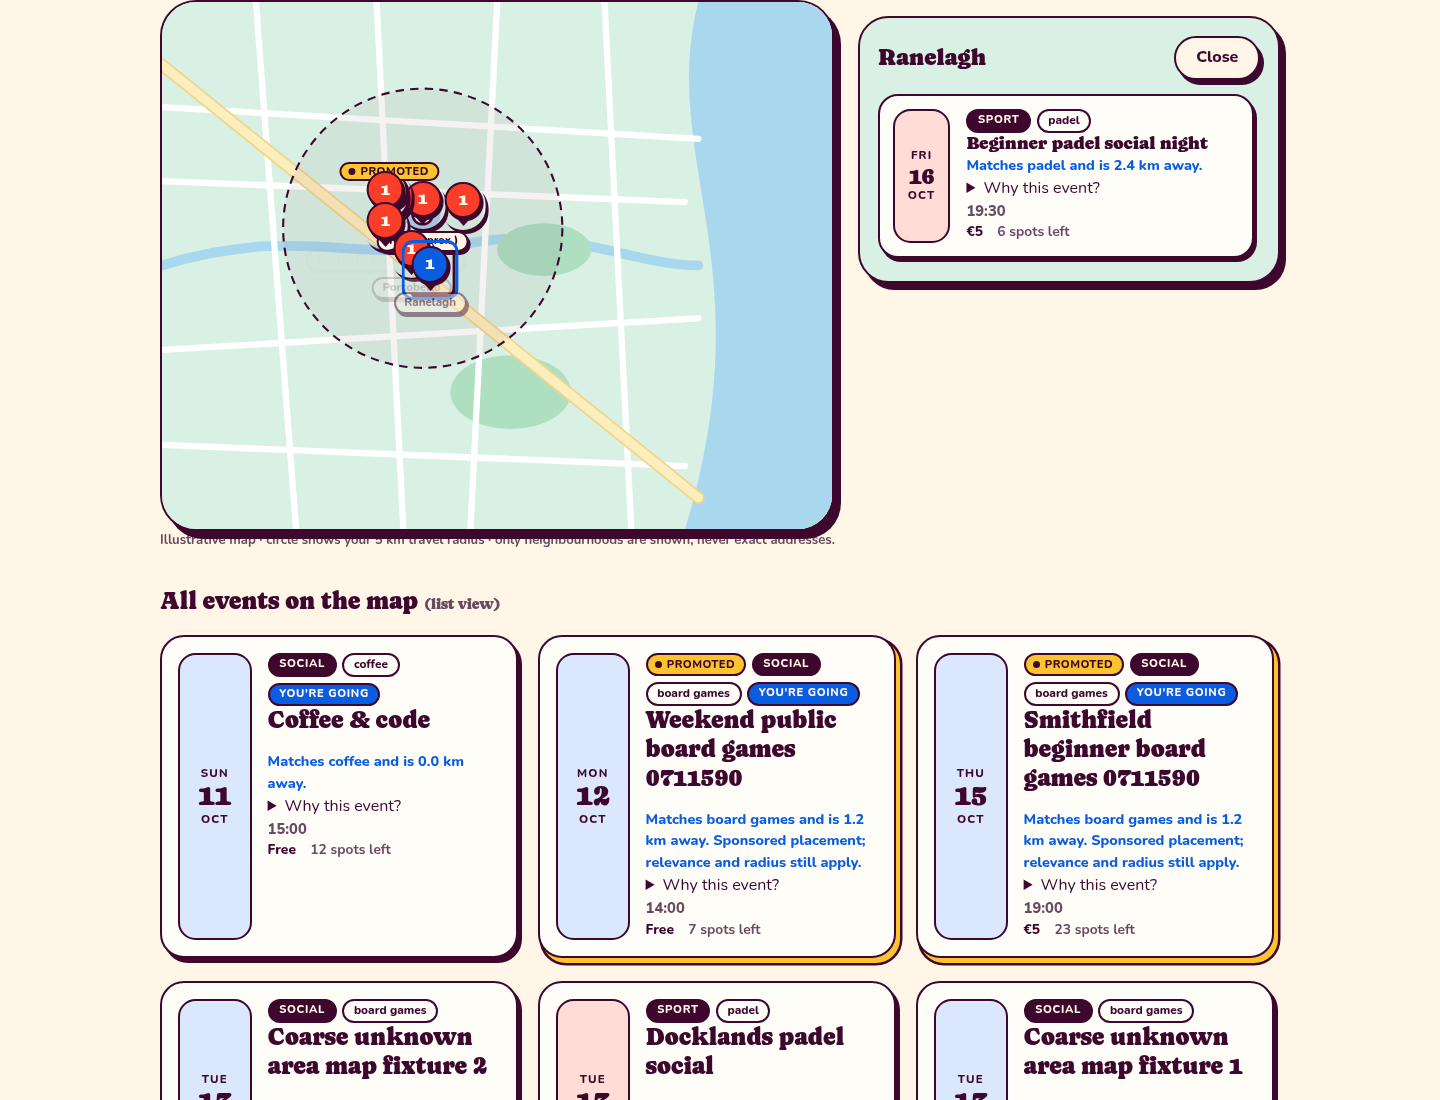
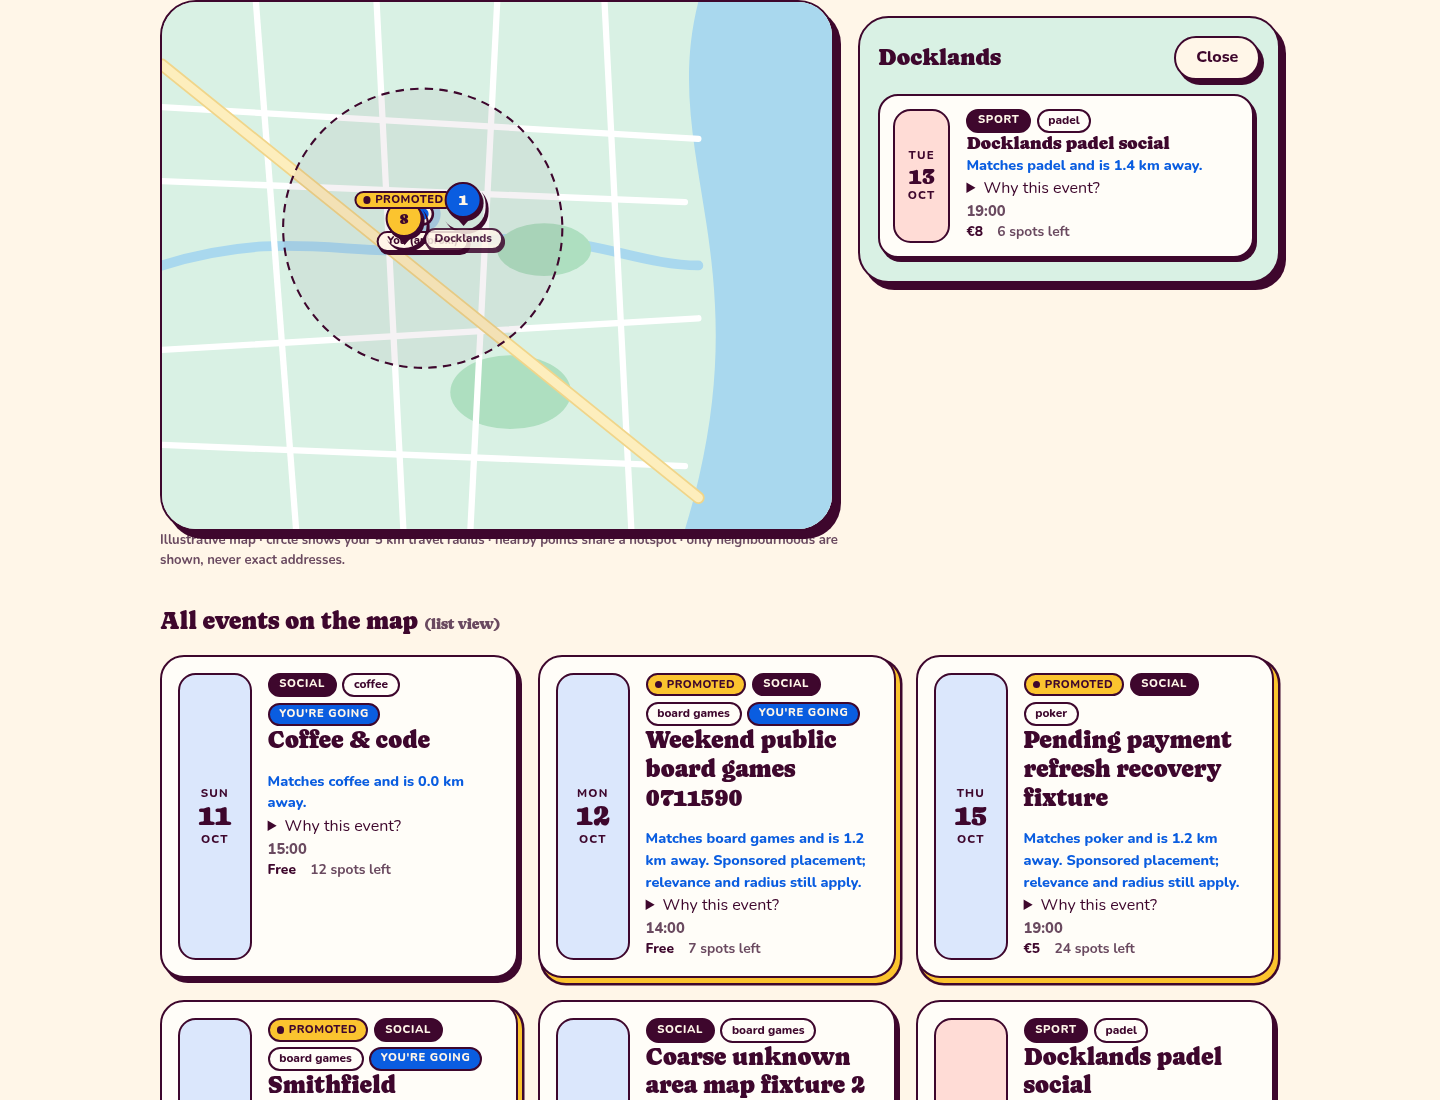
Record final browser verification and screenshots

diff --git a/docs/COMMERCIAL-AI-VERIFICATION.md b/docs/COMMERCIAL-AI-VERIFICATION.md
@@ -22,6 +22,8 @@ The test suites cover:
 - OpenClaw success, OpenClaw failure with OpenRouter fallback, both providers unavailable, deadlines, actual-profile grounding, invalid messages, secret-safe output, and restricted requests.
 - Persistent preferences/mock verification, default JSON location, disposable mode, malformed/oversized requests, and business UI state handling.
 
+The final run with current main integrated passed type checking, 103 tests, 43 offline payment smoke checks, and the production build. The build includes the main website, business portal, and Demo assets.
+
 Payment smoke mocks Stripe SDK create/retrieve/expire operations and verifies locally signed webhook fixtures through the real route. Provider tests use controlled responses. Tests bind temporary localhost ports; storage tests use disposable state or isolated temporary files. No integration credentials or outbound payment/provider requests are needed.
 
 ## Observed browser journeys
@@ -34,7 +36,9 @@ It also checked matching feed/API recommendation order, radius/relevance exclusi
 
 Ask ThirdPlace handled mood, grounded sponsored suggestions, and creation guidance through its labelled rule-based fallback, and refused publishing/payment, diagnosis, exact-address, identity-document, and private-message requests. The mobile feed had no horizontal overflow, and the functional run reported no uncaught browser exceptions.
 
-The illustrative map matched its accessible event list, including City Centre, Docklands, and distinct coarse points in an unknown neighbourhood. Nearby targets appear as clusters whose preview lists every included event; clustering retains the original approximate points. Hotspots were exercised with keyboard and pointer input.
+The illustrative map matched its accessible event list, including City Centre, Docklands, and distinct coarse points in an unknown neighbourhood. Nearby targets appear as clusters whose preview lists every included event; clustering retains the original approximate points. Normal pointer clicks reached every rendered hotspot on desktop and mobile; their previews covered all nine eligible listed events.
+
+After integrating current main, the Demo iframe loaded its local HTML, scripts, styles, logo and fonts, and slide controls worked. The branded assistant retained grounded follow-up guidance and restrictions; the final mobile feed and assistant had no horizontal overflow or uncaught exceptions.
 
 | Journey | Screenshots |
 | --- | --- |
@@ -47,6 +51,7 @@ The illustrative map matched its accessible event list, including City Centre, D
 | Restart recovery | [Recovered checkout](screenshots/commercial-ai/14-restart-recovered-checkout.png), [Recovered My Events](screenshots/commercial-ai/15-restart-my-events.png) |
 | Accessible map catalogue coverage; nearby targets are clustered | [Complete catalogue](screenshots/commercial-ai/16-complete-catalogue-map.png), [Unknown neighbourhood](screenshots/commercial-ai/17-unknown-neighbourhood-map.png) |
 | Pending payment and later confirmation | [Pending retry](screenshots/commercial-ai/18-pending-payment-retry.png), [Confirmed after payment](screenshots/commercial-ai/19-pending-payment-confirmed.png) |
+| Mobile map, preserved Demo and assistant | [Clustered mobile map](screenshots/commercial-ai/21-mobile-clustered-map.png), [Demo iframe](screenshots/commercial-ai/22-demo-iframe.png), [Mobile assistant](screenshots/commercial-ai/23-mobile-assistant.png) |
 
 ## Fixture limits
 
